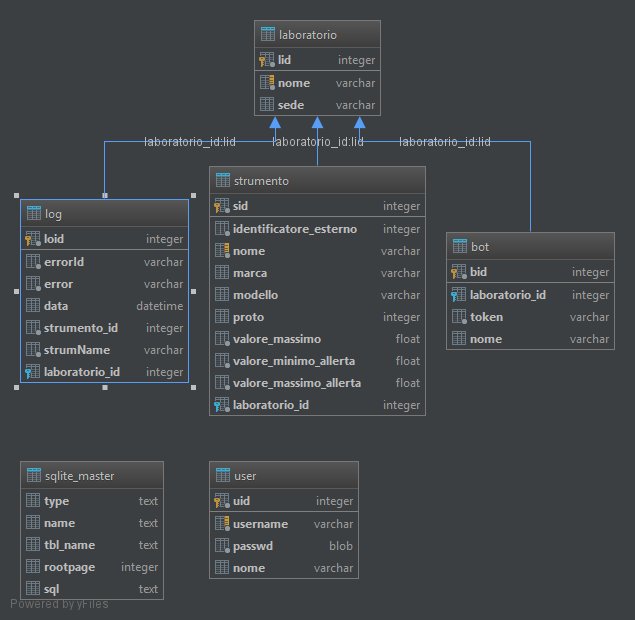
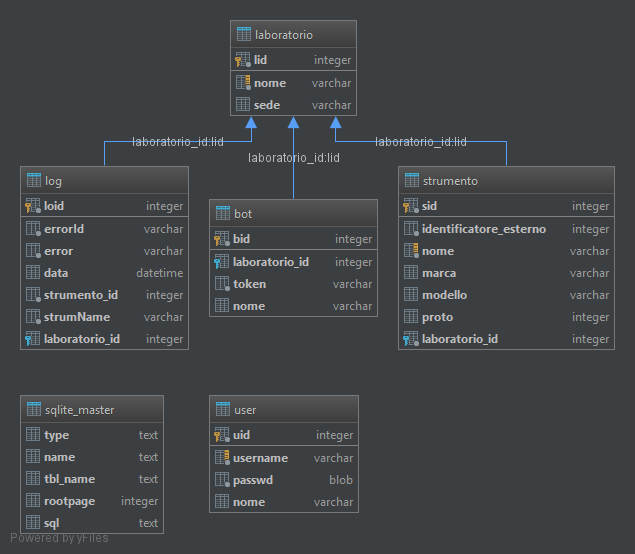
Reduce Strumenti table size

Changed region(s): [[0.0299, 0.0307, 0.9575, 0.6751], [0.0299, 0.7058, 0.2693, 0.9819], [0.3291, 0.7058, 0.5685, 0.9513]]

diff --git a/templates/strumenti/add.htm b/templates/strumenti/add.htm
@@ -33,20 +33,6 @@
         </div>
         <div class="form-row">
             <div class="form-group col-md-4">
-                <label for="fs" class="col-form-label">Fondo Scala</label>
-                <input type="text" class="form-control" id="fs" placeholder="" name="fs">
-            </div>
-            <div class="form-group col-md-4">
-                <label for="vma" class="col-form-label">Valore minimo Allerta</label>
-                <input type="text" class="form-control" id="vma" placeholder="1" name="vma">
-            </div>
-            <div class="form-group col-md-4">
-                <label for="vMa" class="col-form-label">Valore massimo Allerta</label>
-                <input type="text" class="form-control" id="vMa" placeholder="1" name="vMa">
-            </div>
-        </div>
-        <div class="form-row">
-            <div class="form-group col-md-4">
                 <label for="lab" class="col-form-label">Laboratorio</label>
                 <br>
                 <select class="custom-select" id="lab" name="lab">

diff --git a/templates/laboratorio/details.htm b/templates/laboratorio/details.htm
@@ -19,7 +19,6 @@
                 <tr>
                     <th>Nome</th>
                     <th>Identificatore</th>
-                    <th>Valori di allerta</th>
                     <th>Azioni</th>
                 </tr>
                 </thead>
@@ -27,7 +26,6 @@
                     <tr>
                         <td>{{ strumento.nome }}</td>
                         <td>{{ strumento.identificatore_esterno }}</td>
-                        <td>{{ strumento.valore_minimo_allerta }} - {{ strumento.valore_massimo_allerta }}</td>
                         <td> <a href="/list_log/{{ strumento.sid }}/0"><i class="fas fa-book" aria-hidden="true"></i></a> <a href="/details_strumento/{{ strumento.sid }}"><i class="fas fa-search" aria-hidden="true"></i></a> <a href="/mod_strumento/{{ strumento.sid }}"><i class="fas fa-pencil-alt"></i></a> <a href="/delete_from_database/2/{{ strumento.sid }}"><i class="fas fa-times" aria-hidden="true"></i></a></td>
                     </tr>
                 {% endfor %}

diff --git a/templates/strumenti/mod.htm b/templates/strumenti/mod.htm
@@ -8,14 +8,6 @@
                 <label for="eid" class="col-form-label">Identificativo nel laboratorio</label>
                 <input type="text" class="form-control" id="eid" value="{{ entita.indentificatore_esterno }}" name="eid">
             </div>
-            <div class="form-group col-md-4">
-                <label for="vmin" class="col-form-label">Valore minimo allerta</label>
-                <input type="text" class="form-control" id="vmin" value="{{ entita.valore_minimo_allerta }}" name="vmin">
-            </div>
-            <div class="form-group col-md-4">
-                <label for="vmax" class="col-form-label">Valore massimo allerta</label>
-                <input type="text" class="form-control" id="vmax" value="{{ entita.valore_massimo_allerta }}" name="password">
-            </div>
         </div>
         <div class="form-group row">
             <div class="col-sm-12">

diff --git a/templates/strumenti/list.htm b/templates/strumenti/list.htm
@@ -7,7 +7,6 @@
         <tr>
             <th>Nome</th>
             <th>Identificatore</th>
-            <th>Valori di allerta</th>
             <th>Azioni</th>
         </tr>
         </thead>
@@ -15,7 +14,6 @@
             <tr>
                 <td>{{ strumento.nome }}</td>
                 <td>{{ strumento.identificatore_esterno }}</td>
-                <td>{{ strumento.valore_minimo_allerta }} - {{ strumento.valore_massimo_allerta }}</td>
                 <td><a href="/list_log/{{ strumento.sid }}/0"><i class="fas fa-book" aria-hidden="true"></i></a> <a
                         href="/details_strumento/{{ strumento.sid }}"><i class="fas fa-search" aria-hidden="true"></i></a> <a href="/mod_strumento/{{ strumento.sid }}"><i class="fas fa-pencil-alt"></i></a><a href="/delete_from_database/2/{{ strumento.sid }}"><i class="fas fa-times" aria-hidden="true"></i></a></td>
             </tr>

diff --git a/templates/strumenti/details.htm b/templates/strumenti/details.htm
@@ -7,6 +7,5 @@
         <li class="list-group-item"><strong>Marca e modello: </strong>{{ strumento.marca }} / {{ strumento.modello }}</li>
         <li class="list-group-item"><strong>Protocollo di comunicazione: </strong>{% if strumento.proto == 1 %}Seriale{% else %}Lan{% endif %}</li>
         <li class="list-group-item"><strong>Laboratorio</strong>: {{ strumento.laboratorio.nome }}</li>
-        <li class="list-group-item"><strong>Valore fondo scala e valori di allerta: </strong>{{ strumento.valore_massimo }}, {{ strumento.valore_minimo_allerta }} (minimo)/{{ strumento.valore_massimo_allerta }}</li>
     </ul>
 {% endblock %}

diff --git a/server.py b/server.py
@@ -59,22 +59,15 @@ class Strumento(db.Model):
     marca = db.Column(db.String, nullable=True)
     modello = db.Column(db.String, nullable=True)
     proto = db.Column(db.Integer, nullable=True)
-    valore_massimo = db.Column(db.Float, nullable=False)
-    valore_minimo_allerta = db.Column(db.Float, nullable=False)
-    valore_massimo_allerta = db.Column(db.Float, nullable=False)
     laboratorio_id = db.Column(db.Integer, db.ForeignKey('laboratorio.lid'), nullable=False)
 
-    def __init__(self, idee, nome, marca, modello, proto, fs, valore_minimo_allerta,
-                 valore_massimo_allerta, laboratorio_id):
+    def __init__(self, idee, nome, marca, modello, proto, laboratorio_id):
         self.identificatore_esterno = idee
         self.nome = nome
         self.marca = marca
         self.modello = modello
         self.proto = proto
-        self.valore_minimo_allerta = valore_minimo_allerta
-        self.valore_massimo_allerta = valore_massimo_allerta
         self.laboratorio_id = laboratorio_id
-        self.valore_massimo = fs
 
     def __repr__(self):
         return "{}-{}-{}".format(self.sid, self.identificatore_esterno, self.nome)
@@ -228,8 +221,11 @@ def page_laboratorio_add():
             nuovolaboratorio = Laboratorio(request.form['nome'], request.form['sede'])
             db.session.add(nuovolaboratorio)
             db.session.commit()
-            rete = Strumento(0, "Rete", "Oggetto dummy", 1, 2, 0, 0, 0, nuovolaboratorio.lid)  # Nota importante: questo strumento serve per i messaggi della connettività e viene creato a tal proposito. Non è possibile modificarlo.
+            rete = Strumento(0, "Rete", "Oggetto dummy", 1, 2, nuovolaboratorio.lid)  # Nota importante: questo strumento serve per i messaggi della connettività e viene creato a tal proposito. Non è possibile modificarlo.
             db.session.add(rete)
+            db.session.commit()
+            logdummy = Log("0", "Rete Creata", datetime.now(), nuovolaboratorio.lid, 0, "Rete")
+            db.session.add(logdummy)
             db.session.commit()
             return redirect(url_for('page_dashboard'))
 
@@ -269,8 +265,7 @@ def page_strumento_add():
             return render_template("/strumenti/add.htm", utente=utente, laboratori=laboratori)
         else:
             nuovo_strumento = Strumento(request.form['iden'], request.form['nome'], request.form['marca'],
-                                        request.form['modello'], request.form['proto'], request.form['fs'],
-                                        request.form['vma'], request.form['vMa'],
+                                        request.form['modello'], request.form['proto'],
                                         request.form['lab'])
             db.session.add(nuovo_strumento)
             db.session.commit()
@@ -313,8 +308,6 @@ def page_mod_strumento(sid):
         else:
             entita = Strumento.query.get_or_404(sid)
             entita.identificatore_esterno = request.form['eid']
-            entita.valore_minimo_allerta = request.form['vmin']
-            entita.valore_massimo_allerta = request.form['vmax']
             db.session.commit()
             return redirect(url_for('page_dashboard'))
 
@@ -496,6 +489,8 @@ def paage_delete(object, id):
                 db.session.commit()
                 return redirect(url_for('page_laboratorio_list'))
             elif object == 2:  # Strumento
+                if id == 0:
+                    abort(403)
                 strumento = Strumento.query.get_or_404(id)
                 db.session.delete(strumento)
                 db.session.commit()
